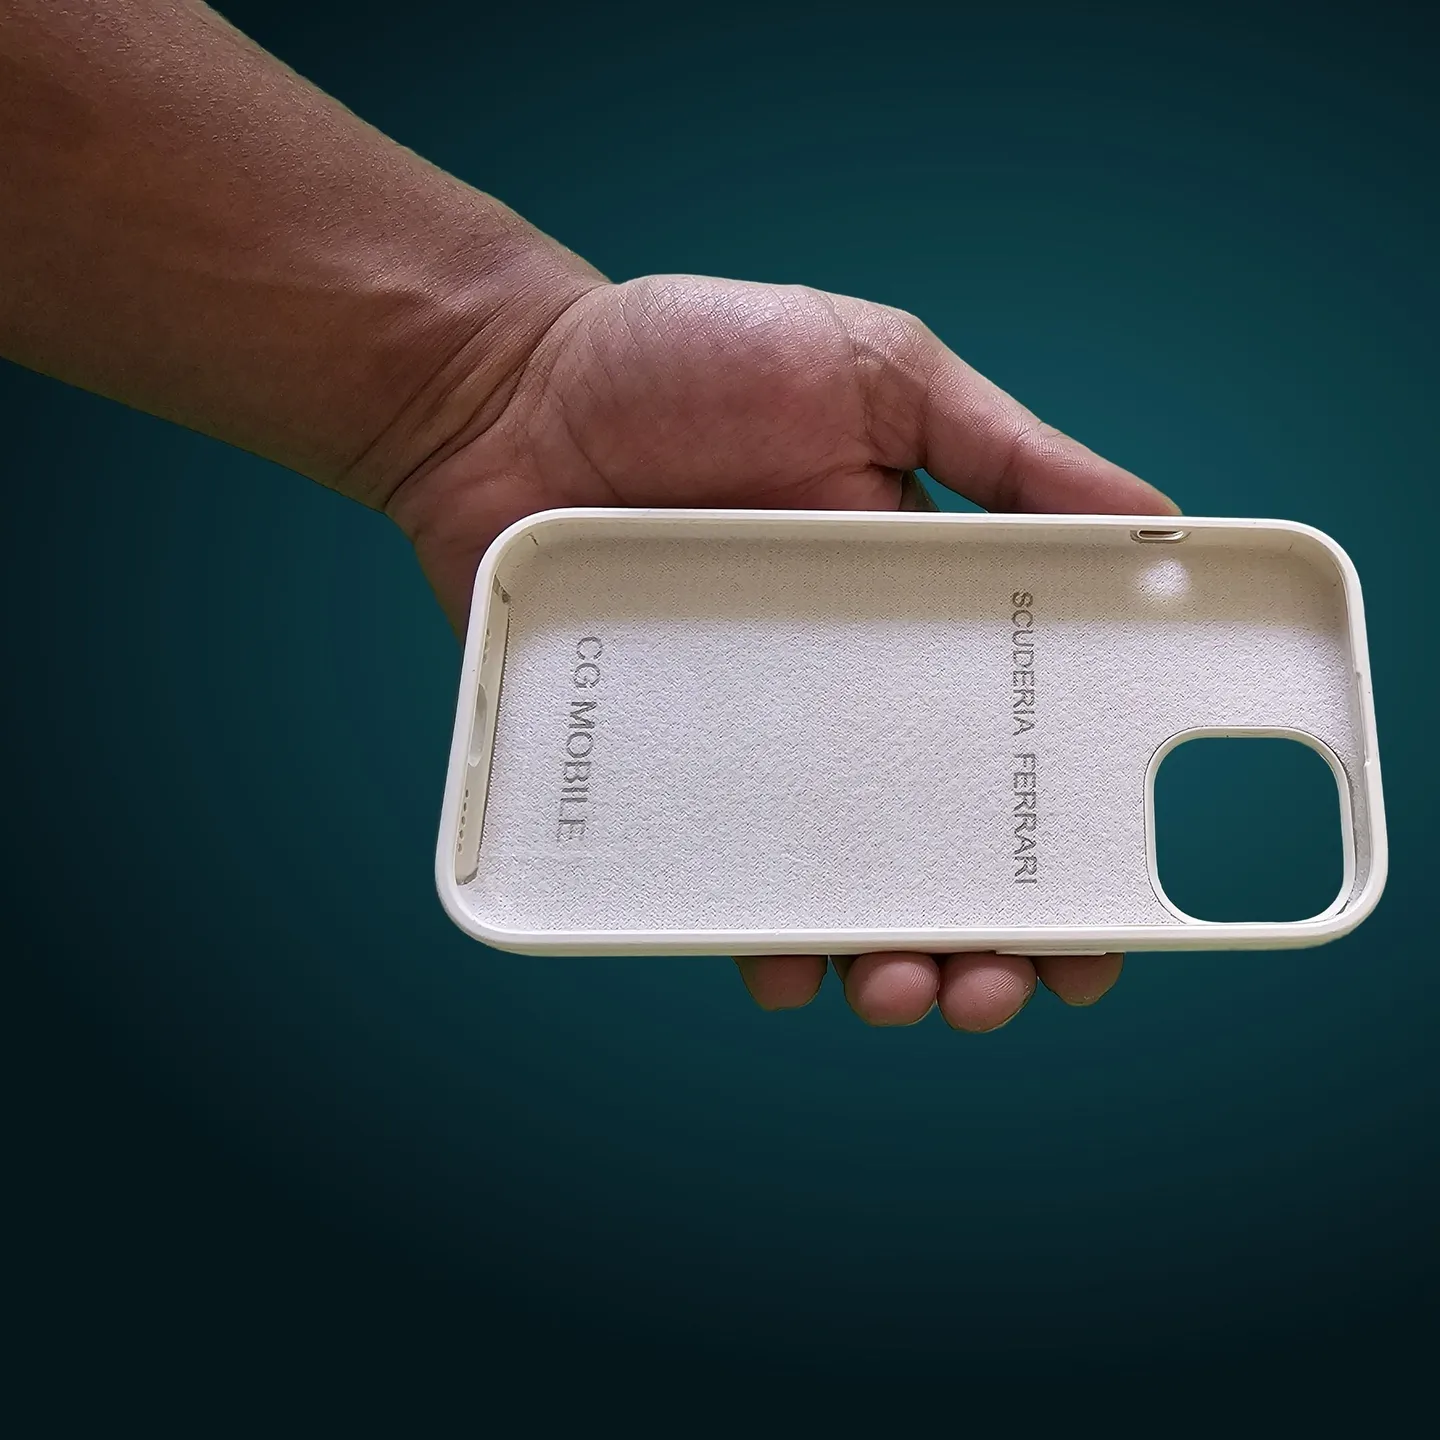
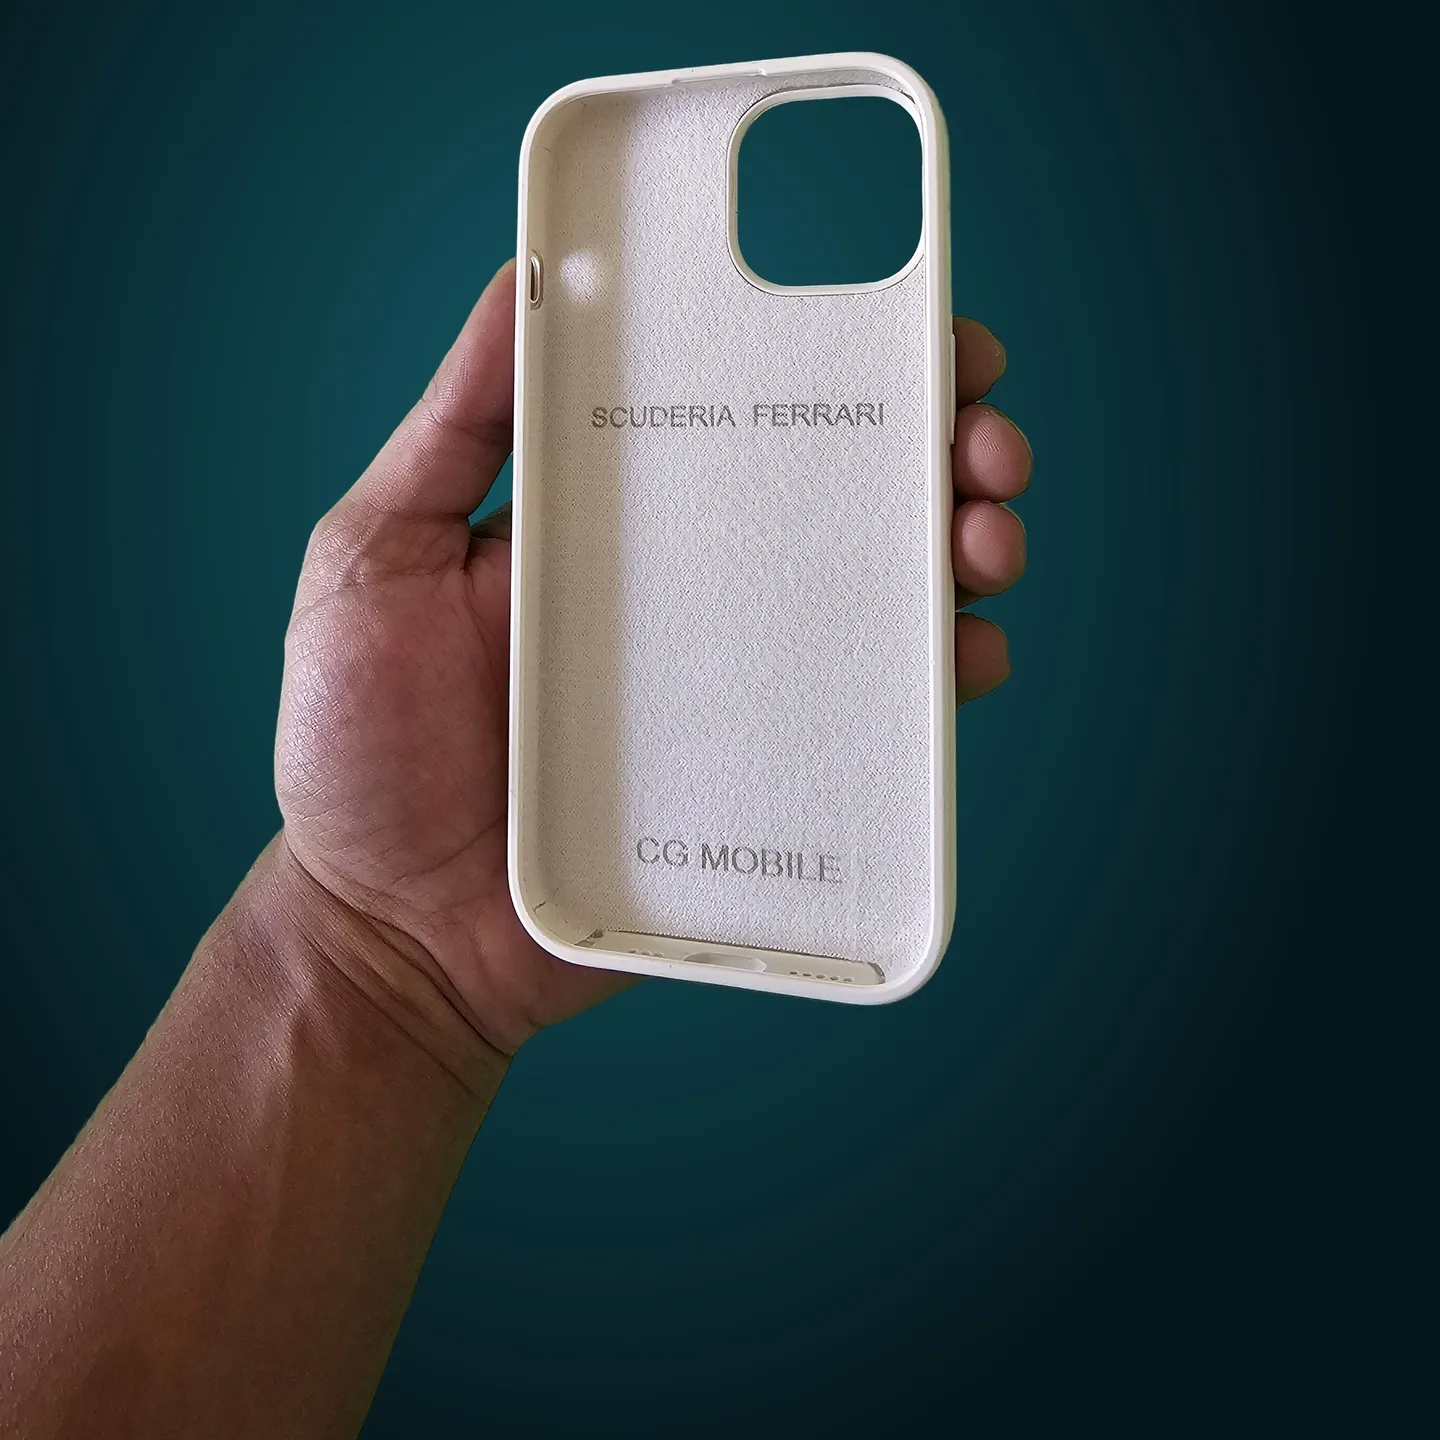
realme T200 family photos; cream Ferrari photos upright
- realme Buds T200 (black, white), T200 Lite (black) and T200x (black):
  product images from their Flipkart listings, in the stocked colours
  only. Shots on black are cut onto the card backdrop. Every audio
  product now has real images.
- Cream Ferrari (iPhone 15): the in-hand and inside photos were taken
  sideways; turned a quarter anticlockwise so the case stands upright.
  The in-hand photo is the card's second image again.

Claude-Session: https://claude.ai/code/session_01Ro9QphSV6UXVxKQWkgm8ku

diff --git a/apps/storefront/src/lib/catalog/gadgets.ts b/apps/storefront/src/lib/catalog/gadgets.ts
@@ -3,7 +3,7 @@
  * for one phone, so each comes in options (colours, or cable lengths) instead of phone models.
  *
  * Audio is the shop's real stock: sealed boAt and realme earbuds and neckbands, with the brand's
- * own product images (see `photos`). Chargers and cables are PLACEHOLDER CONTENT, hidden by SHOW_CHARGING.
+ * own product images (see `photos`; realme T200 family from its Flipkart listings). Chargers and cables are PLACEHOLDER CONTENT, hidden by SHOW_CHARGING.
  *
  * PRICES: `priceInr` is the shop's sticker where one was photographed (Airdopes Alpha Gen 2,
  * realme Buds T200x); otherwise it is the brand's own online price on 2 Nov 2026, and
@@ -371,6 +371,11 @@ const AUDIO: readonly GadgetEntry[] = [
     ],
     original: REALME,
     warrantyMonths: ONE_YEAR,
+    photos: {
+      id: 'realme-t200',
+      gallery: ['Black', 'White', 'Hi-Res certified'],
+      heroByOption: { black: 0, white: 1 },
+    },
   },
   {
     id: 'realme-t200-lite',
@@ -397,6 +402,11 @@ const AUDIO: readonly GadgetEntry[] = [
     options: [{ slug: 'black', name: 'Black', hex: '#1f2023' }],
     original: REALME,
     warrantyMonths: ONE_YEAR,
+    photos: {
+      id: 'realme-t200-lite',
+      gallery: ['Black', 'Features', '48 hours of playback', '12.4 mm bass driver'],
+      heroByOption: { black: 0 },
+    },
   },
   {
     id: 'realme-t200x',
@@ -424,6 +434,11 @@ const AUDIO: readonly GadgetEntry[] = [
     options: [{ slug: 'black', name: 'Black', hex: '#1f2023' }],
     original: REALME,
     warrantyMonths: ONE_YEAR,
+    photos: {
+      id: 'realme-t200x',
+      gallery: ['Black', 'Earbuds', 'Case closed'],
+      heroByOption: { black: 0 },
+    },
   },
   {
     id: 'realme-t310',
